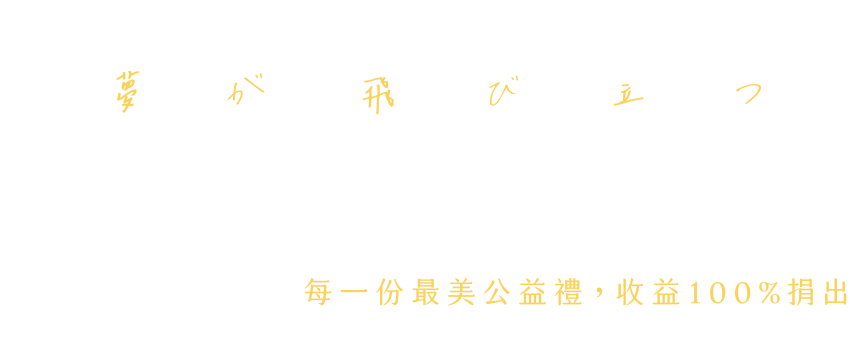
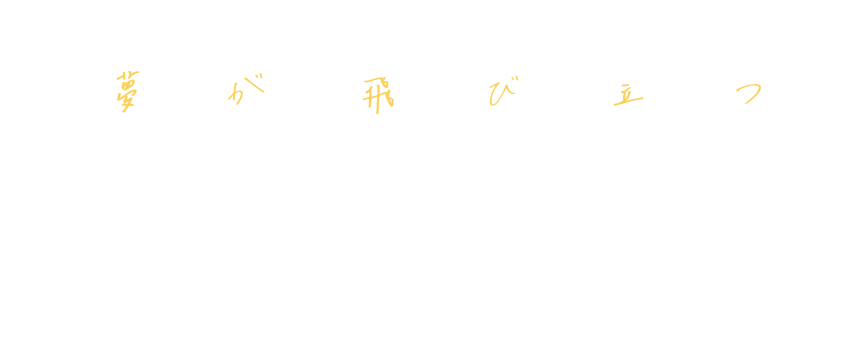
banner文字

Changed region(s): [[0.3341, 0.8235, 1.0, 0.9118]]

diff --git a/src/assets/css/_components/_banner.scss b/src/assets/css/_components/_banner.scss
@@ -58,6 +58,16 @@
         width: vwPc(856);
     }
 
+    &-note {
+        position: absolute;
+        top: vwPc(272);
+        left: vwPc(305);
+        font-size: vwPc(24.2);
+        font-weight: 300;
+        color: #f9cb57;
+        white-space: nowrap;
+    }
+
     &-boy {
         top: vwPc(200);
         right: vwPc(50);
@@ -124,6 +134,14 @@
             left: 50%;
             transform: translateX(-50%);
             width: vwMb(893);
+        }
+
+        &-note {
+            top: vwMb(530);
+            left: 0;
+            width: 100%;
+            font-size: vwMb(39);
+            text-align: center;
         }
 
         &-boy {
